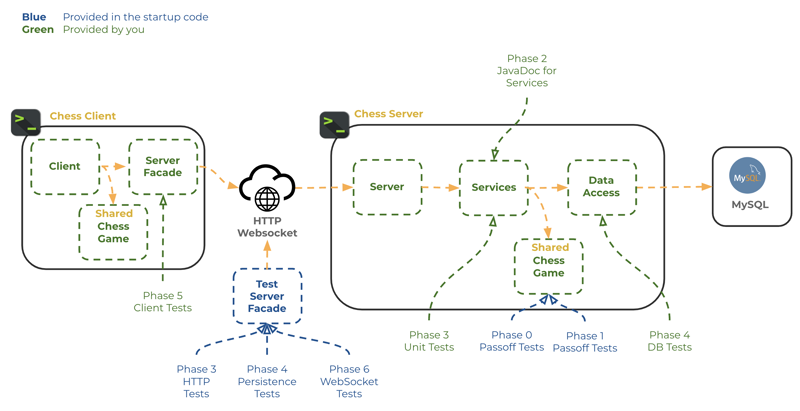
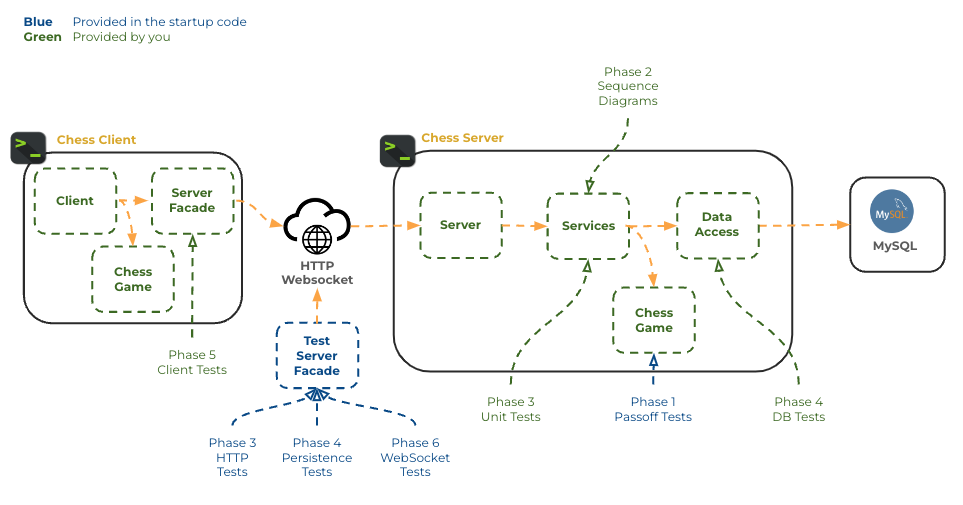
fix(chess) deliverable description to reflect phase 2 changes

diff --git a/chess/2-server-design/server-design.md b/chess/2-server-design/server-design.md
@@ -14,14 +14,14 @@ The chess application components are demonstrated by the following diagram and d
 
 ![top level](top-level.png)
 
-| Component    | Sub-Component | Description                                                                                                                                                                                                                           |
-| ------------ | ------------- | ------------------------------------------------------------------------------------------------------------------------------------------------------------------------------------------------------------------------------------- |
-| Chess Client |               | Provides the interactive interface that allows a user to play a game of chess. This includes actions to login, create, and play games. The client exchanges messages over the network with the chess server.                          |
-| Chess Server |               | Accepts network requests from the chess client to login, create, and play games. Users and games are stored in the database. The server also sends game play commands to the chess clients that are participating in a specific game. |
-|              | Server        | Receives network requests and deserializes them into service objects. Calls service methods to satisfy the requests.                                                                                                                  |
-|              | Services      | Processes the business logic for the application. This includes registering and logging in users, creating, listing, and playing chess games. Calls the data access methods to retrieve and persist application data data.            |
-|              | DataAccess    | Provides methods that persistently store and retrieve the application data.                                                                                                                                                           |
-| Database     |               | Stores data persistently.                                                                                                                                                                                                             |
+| Component    | Sub-Component | Description                                                                                                                                                                                                                                                       |
+| ------------ | ------------- | ----------------------------------------------------------------------------------------------------------------------------------------------------------------------------------------------------------------------------------------------------------------- |
+| Chess Client |               | A terminal based program that allows a user to play a game of chess. This includes actions to login, create, and play games. The client exchanges messages over the network with the chess server.                                                                |
+| Chess Server |               | A command line program that accepts network requests from the chess client to login, create, and play games. Users and games are stored in the database. The server also sends game play commands to the chess clients that are participating in a specific game. |
+|              | Server        | Receives network requests and deserializes them into service objects. Calls service methods to satisfy the requests.                                                                                                                                              |
+|              | Services      | Processes the business logic for the application. This includes registering and logging in users, creating, listing, and playing chess games. Calls the data access methods to retrieve and persist application data data.                                        |
+|              | DataAccess    | Provides methods that persistently store and retrieve the application data.                                                                                                                                                                                       |
+| Database     |               | Stores data persistently.                                                                                                                                                                                                                                         |
 
 ## Application Programming Interface (API)
 

diff --git a/chess/chess.md b/chess/chess.md
@@ -39,7 +39,7 @@ The follow summaries the deliverables you must provide for each of the different
 | ---------------- | --------------------------------------------------------------------------------------------------------------------------------------------- |
 | 0. Chess moves   | 1. Complete pass off tests for the chess board and moves code.                                                                                |
 | 1. Chess game    | 1. Complete pass off tests for the chess game code.<br/>2. Optionally complete castling and en passant tests for extra credit.                |
-| 2. Server design | 1. Create javadocs for the service and database components.                                                                                   |
+| 2. Server design | 1. Create sequence diagrams endpoints, services, and data access components.                                                                  |
 | 3. Web API       | 1. Complete pass off tests for the HTTP server<br/>2. Create and complete unit tests for chess service.                                       |
 | 4. Database      | 1. Complete serialization pass off test.<br/>2. Create and complete unit tests for the chess database.                                        |
 | 5. Pregame       | 1. Create and complete client unit tests.                                                                                                     |
